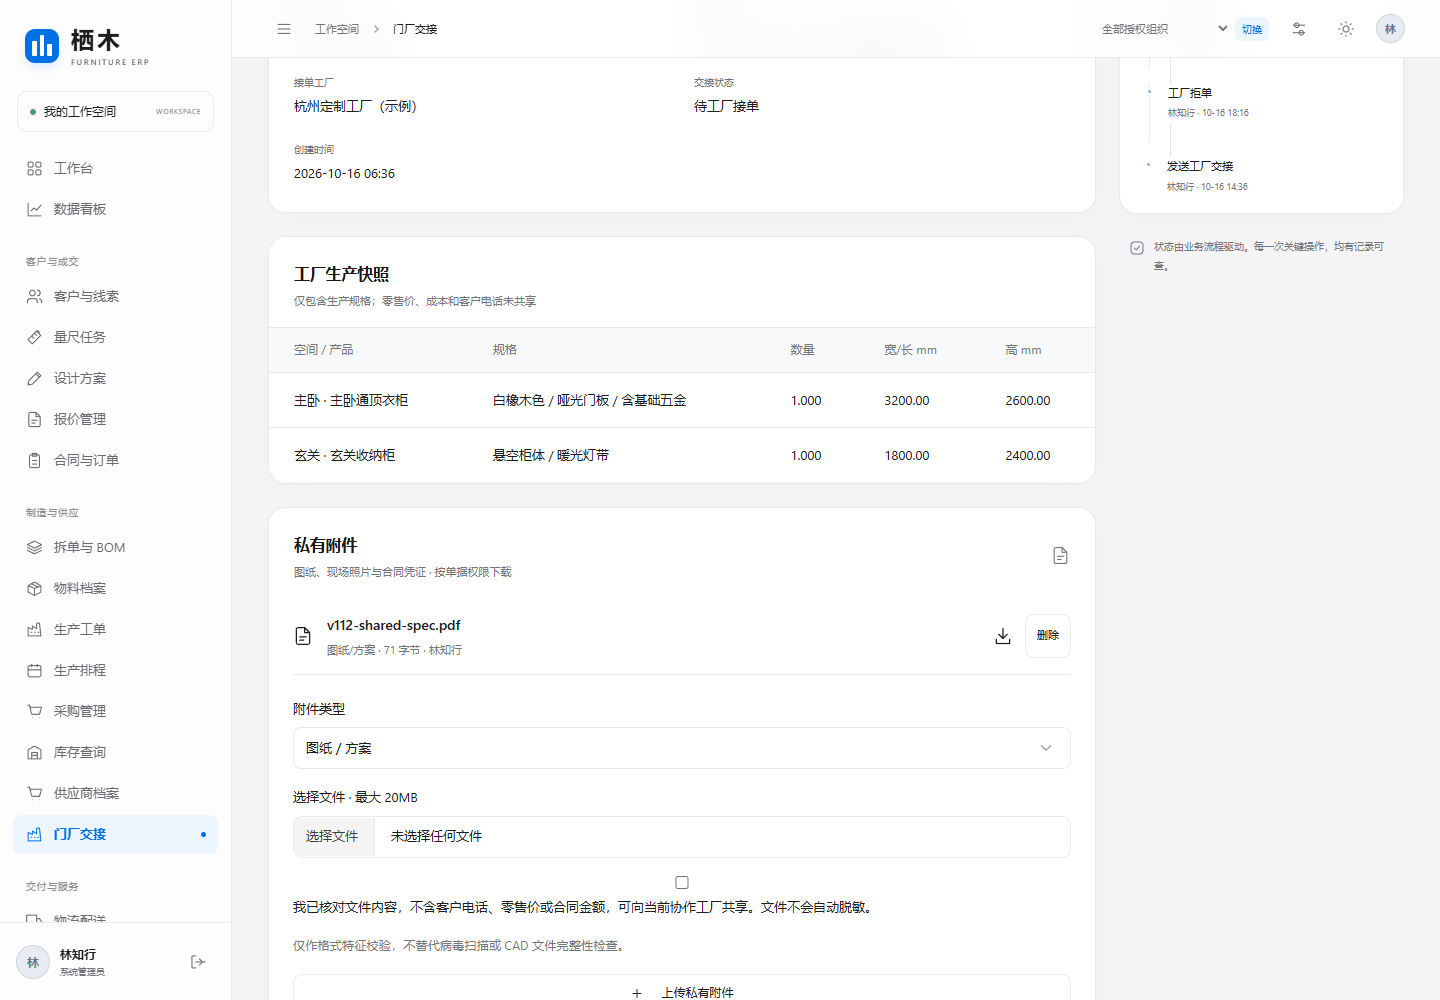
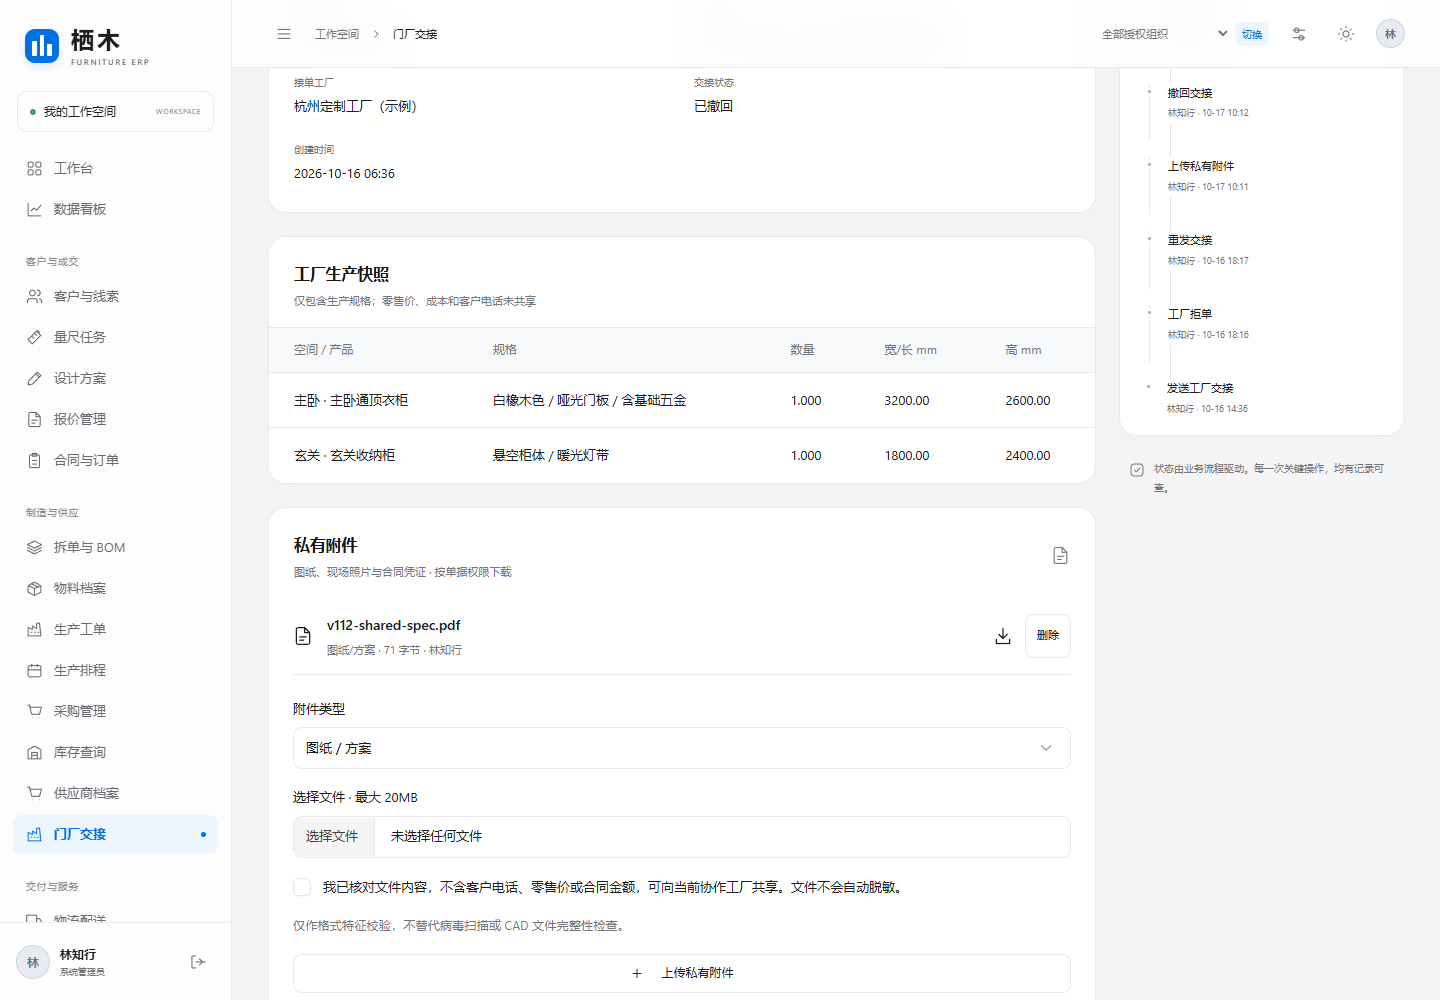
chore: finalize v1.1.2 validation evidence and refresh browser assets

diff --git a/erp/templates/erp/login.html b/erp/templates/erp/login.html
@@ -1,1 +1,1 @@
-{% load static ui %}<!doctype html><html lang="zh-CN"><head><meta charset="utf-8"><meta name="viewport" content="width=device-width,initial-scale=1"><meta name="color-scheme" content="light dark"><title>登录 · 栖木 ERP</title><link rel="icon" href="{% static 'erp/mark.svg' %}"><script src="{% static 'erp/preferences.js' %}"></script><link rel="stylesheet" href="{% static 'vendor/tabler.min.css' %}"><link rel="stylesheet" href="{% static 'erp/app.css' %}"></head><body class="login-body"><main class="login-layout"><section class="login-story"><a class="brand" href="{% url 'login' %}"><span class="brand-mark"><i></i><i></i><i></i></span><span class="brand-name">栖木<span>FURNITURE ERP</span></span></a><div class="login-story-copy"><div class="eyebrow">为每一个理想的家</div><h1>经营有序。<br>美好发生。</h1><p>从第一份设计，到最后一毫米。<br>连接家居经营的每一个细节。</p></div><div class="cabinet-art" aria-hidden="true"><div class="art-wall"></div><div class="art-shelf"><i></i><i></i><i></i></div><div class="art-cabinet"><i></i><i></i><i></i></div><div class="art-floor"></div></div><span class="login-caption">客户 · 设计 · 生产 · 交付</span></section><section class="login-form-area"><div class="login-card"><span class="login-kicker">WELCOME BACK</span><h2>欢迎回来。</h2><p>登录你的工作空间，让协作更从容。</p><form method="post">{% csrf_token %}{% if form.errors %}<div class="form-error-summary" role="alert">账号或密码不正确，请检查后重试。</div>{% endif %}{% if next %}<input type="hidden" name="next" value="{{ next }}">{% endif %}<div class="form-field"><label for="id_username">账号</label><input class="form-control" type="text" name="username" id="id_username" required autofocus autocomplete="username" value="{{ form.username.value|default:'' }}"></div><div class="form-field"><label for="id_password">密码</label><input class="form-control" type="password" name="password" id="id_password" required autocomplete="current-password"></div><button type="submit" class="btn btn-primary login-submit">进入工作空间 {% icon 'arrow' %}</button></form><p class="login-help">账号由企业管理员分配。演示环境账号见初始化命令输出。</p></div><footer>栖木家居 ERP · 更专注，更从容。</footer></section></main></body></html>
+{% load static ui %}<!doctype html><html lang="zh-CN"><head><meta charset="utf-8"><meta name="viewport" content="width=device-width,initial-scale=1"><meta name="color-scheme" content="light dark"><title>登录 · 栖木 ERP</title><link rel="icon" href="{% static 'erp/mark.svg' %}"><script src="{% static 'erp/preferences.js' %}"></script><link rel="stylesheet" href="{% static 'vendor/tabler.min.css' %}"><link rel="stylesheet" href="{% static 'erp/app.css' %}?v=1.1.2"></head><body class="login-body"><main class="login-layout"><section class="login-story"><a class="brand" href="{% url 'login' %}"><span class="brand-mark"><i></i><i></i><i></i></span><span class="brand-name">栖木<span>FURNITURE ERP</span></span></a><div class="login-story-copy"><div class="eyebrow">为每一个理想的家</div><h1>经营有序。<br>美好发生。</h1><p>从第一份设计，到最后一毫米。<br>连接家居经营的每一个细节。</p></div><div class="cabinet-art" aria-hidden="true"><div class="art-wall"></div><div class="art-shelf"><i></i><i></i><i></i></div><div class="art-cabinet"><i></i><i></i><i></i></div><div class="art-floor"></div></div><span class="login-caption">客户 · 设计 · 生产 · 交付</span></section><section class="login-form-area"><div class="login-card"><span class="login-kicker">WELCOME BACK</span><h2>欢迎回来。</h2><p>登录你的工作空间，让协作更从容。</p><form method="post">{% csrf_token %}{% if form.errors %}<div class="form-error-summary" role="alert">账号或密码不正确，请检查后重试。</div>{% endif %}{% if next %}<input type="hidden" name="next" value="{{ next }}">{% endif %}<div class="form-field"><label for="id_username">账号</label><input class="form-control" type="text" name="username" id="id_username" required autofocus autocomplete="username" value="{{ form.username.value|default:'' }}"></div><div class="form-field"><label for="id_password">密码</label><input class="form-control" type="password" name="password" id="id_password" required autocomplete="current-password"></div><button type="submit" class="btn btn-primary login-submit">进入工作空间 {% icon 'arrow' %}</button></form><p class="login-help">账号由企业管理员分配。演示环境账号见初始化命令输出。</p></div><footer>栖木家居 ERP · 更专注，更从容。</footer></section></main></body></html>

diff --git a/erp/templates/erp/base.html b/erp/templates/erp/base.html
@@ -8,8 +8,8 @@
   <link rel="icon" type="image/svg+xml" href="{% static 'erp/mark.svg' %}">
   <script src="{% static 'erp/preferences.js' %}"></script>
   <link rel="stylesheet" href="{% static 'vendor/tabler.min.css' %}">
-  <link rel="stylesheet" href="{% static 'erp/app.css' %}">
-  <script src="{% static 'erp/app.js' %}" defer></script>
+  <link rel="stylesheet" href="{% static 'erp/app.css' %}?v=1.1.2">
+  <script src="{% static 'erp/app.js' %}?v=1.1.2" defer></script>
 </head>
 <body>
 <a class="skip-link" href="#main">跳到主要内容</a>

diff --git a/docs/VALIDATION.md b/docs/VALIDATION.md
@@ -1,3 +1,34 @@
+# 验证记录 · v1.1.2 三次评审修正
+
+2026-10-17，提交 `6b0c375`。**111个用例**：SQLite105通过/6个PG专用跳过；PostgreSQL110通过/1个SQLite备份专用跳过。Ubuntu/Windows × Python3.12/3.13及PostgreSQL16五组CI全部成功：[运行日志](https://github.com/3578190277jqx/erp/actions/runs/38994189997)。最新提交的额外资源版本号和截图以原PR检查为准。
+
+- 新增PG竞争：工厂接单与源门店撤回仅一个提交；收款700与合同减至600的批准仅一个提交，计划合计始终等于合同且收款不超过合同。
+- 原4个PG竞争、历史0002/0007→0015迁移、SQLite备份、组织和本人范围、附件失权与大文件分块回归均保留。历史有报价口径已知、无报价销售口径未知，不重算历史金额。
+- 独立审查发现未知金额绕过、迟到上传跨厂、回传反向锁序三项，均先写失败回归再修复；另补上重发附件检查提醒，无待处理的重要发现。
+- 本地先备份SQLite与media至忽略目录，integrity_check=ok，0013–0015在现有演示库成功应用，不重置密码。seed_upgrade_demo重复执行保持原数据。
+- check、makemigrations无漂移、collectstatic、生产check --deploy --fail-level WARNING均通过。
+- Chrome真实新建折扣0.9变更并留空金额，服务器计算11676.79；另一店长批准成功，来源报价仍为0.95/12325.50。产品净额10333.44、税1343.35。
+- 三期新应收3501.45/4668.59/3506.75，原尾款100保持第三期；定金与生产款已收仍0；新交期2026-12-01同步后两期日期。
+- 真实上传交接测试PDF，确认脱敏并绑定目标/版本。仅有工厂角色账号下载：待接单200→撤回403→重发200→再撤回403；撤回时详情404。兼有源门店权限的账号仍按源权限读取，符合独立授权语义。
+- 浏览器源门店撤回待接单交接后显示重发入口；原编号不变版本递增。真实申请人撤回旧待批申请，状态已撤回。
+- 390×844手机订单scrollWidth=390，无整页横向溢出；主业务页控制台0错误/0警告。共享确认checkbox与说明同行，静态CSS/JS加版本号确保升级浏览器取得新交互。
+
+规则与保留范围见 [R1–R10记录](V112_THIRD_REVIEW_RESPONSE.md)。分期只重分未收，已收不挪期；全部结清后新增未收归尾款。工程师查看与工厂接单继续分工；越权对象404继续保留。
+
+![批准前的分期修订预览](screenshots/v112-plan-preview.png)
+
+![批准后的折扣、税额及原尾款核销](screenshots/v112-approved-plan.png)
+
+![撤回后的恢复入口](screenshots/v112-withdraw-recovery.png)
+
+![绑定工厂和版本的共享证据](screenshots/v112-handoff-evidence.png)
+
+![移动订单](screenshots/v112-mobile.png)
+
+---
+
+以下为前轮验证历史，数字与范围仅代表当时版本。
+
 # 验证记录 · v1.1.1 二次评审修正
 
 2026-10-16，最终功能提交 `06069e0`。**89用例**：SQLite85通过/4个PG专用跳过，PostgreSQL88通过/1个SQLite备份专用跳过。Ubuntu/Windows × Python3.12/3.13及PostgreSQL16共五组CI全绿：[运行日志](https://github.com/3578190277jqx/erp/actions/runs/38886809316)。

diff --git a/docs/V112_THIRD_REVIEW_RESPONSE.md b/docs/V112_THIRD_REVIEW_RESPONSE.md
@@ -39,7 +39,7 @@
 
 ## 验证和运行
 
-本机111用例：SQLite105通过、6个PG专用跳过。功能提交 `01dfcda` 的110用例五组CI成功：[日志](https://github.com/3578190277jqx/erp/actions/runs/38993856473)；其中PG109通过、1个SQLite备份专用跳过。随后新增路由停用时拒单回归，最终CI见 [验证记录](VALIDATION.md)。
+111用例：SQLite105通过、6个PG专用跳过；PostgreSQL110通过、1个SQLite备份专用跳过。提交 `6b0c375` 五组CI成功：[日志](https://github.com/3578190277jqx/erp/actions/runs/38994189997)，包括路由停用时拒单回归。详情见 [验证记录](VALIDATION.md)。
 
 真实 Chrome：折扣0.95→0.90，合同12325.50→11676.79；三期3501.45/4668.59/3506.75，尾款100仍在第三期，源报价仍0.95/12325.50。申请人撤回旧待批变更；交接撤回后可重发；工厂专用测试账号下载200→撤回403→重发200→撤回403。兼有门店读取权限的账号仍可凭独立门店权限查看，这是预期权限语义。
 
